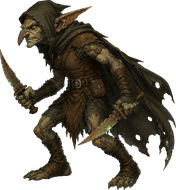
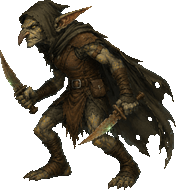
[visuel] Gobelin rapide : bords durs (fin de l'effet « on voit à travers »)
L'anti-aliasing du détourage laissait ~13% de pixels semi-transparents sur le
contour ; agrandis par le rendu « pixels nets » du jeu, ils devenaient des blocs
translucides qui bougeaient avec la respiration. Alpha passé en tout-ou-rien
(0% de semi-transparent) : contour net, plus de transparence parasite.

Claude-Session: https://claude.ai/code/session_01AZD9AfytCUWGMcS4VfpH7V

diff --git a/outils/preparer_gobelin_vif.py b/outils/preparer_gobelin_vif.py
@@ -37,6 +37,12 @@ def main():
     ech = HAUTEUR_CIBLE / h
     tw = max(1, round(w * ech))
     rgba = rgba.resize((tw, HAUTEUR_CIBLE), Image.LANCZOS)
+    # Bords DURS : on retire les pixels semi-transparents (l'anti-aliasing du
+    # redimensionnement). Sinon, agrandis par le rendu « pixels nets » du jeu, ils
+    # deviennent des blocs translucides → effet « on voit à travers » en mouvement.
+    r2, g2, b2, a2 = rgba.split()
+    a2 = a2.point(lambda v: 255 if v >= 128 else 0)
+    rgba = Image.merge("RGBA", (r2, g2, b2, a2))
     rgba.save(SORTIE)
 
     # Portrait suggéré : carré autour de la TÊTE (haut-gauche de l'illustration).
